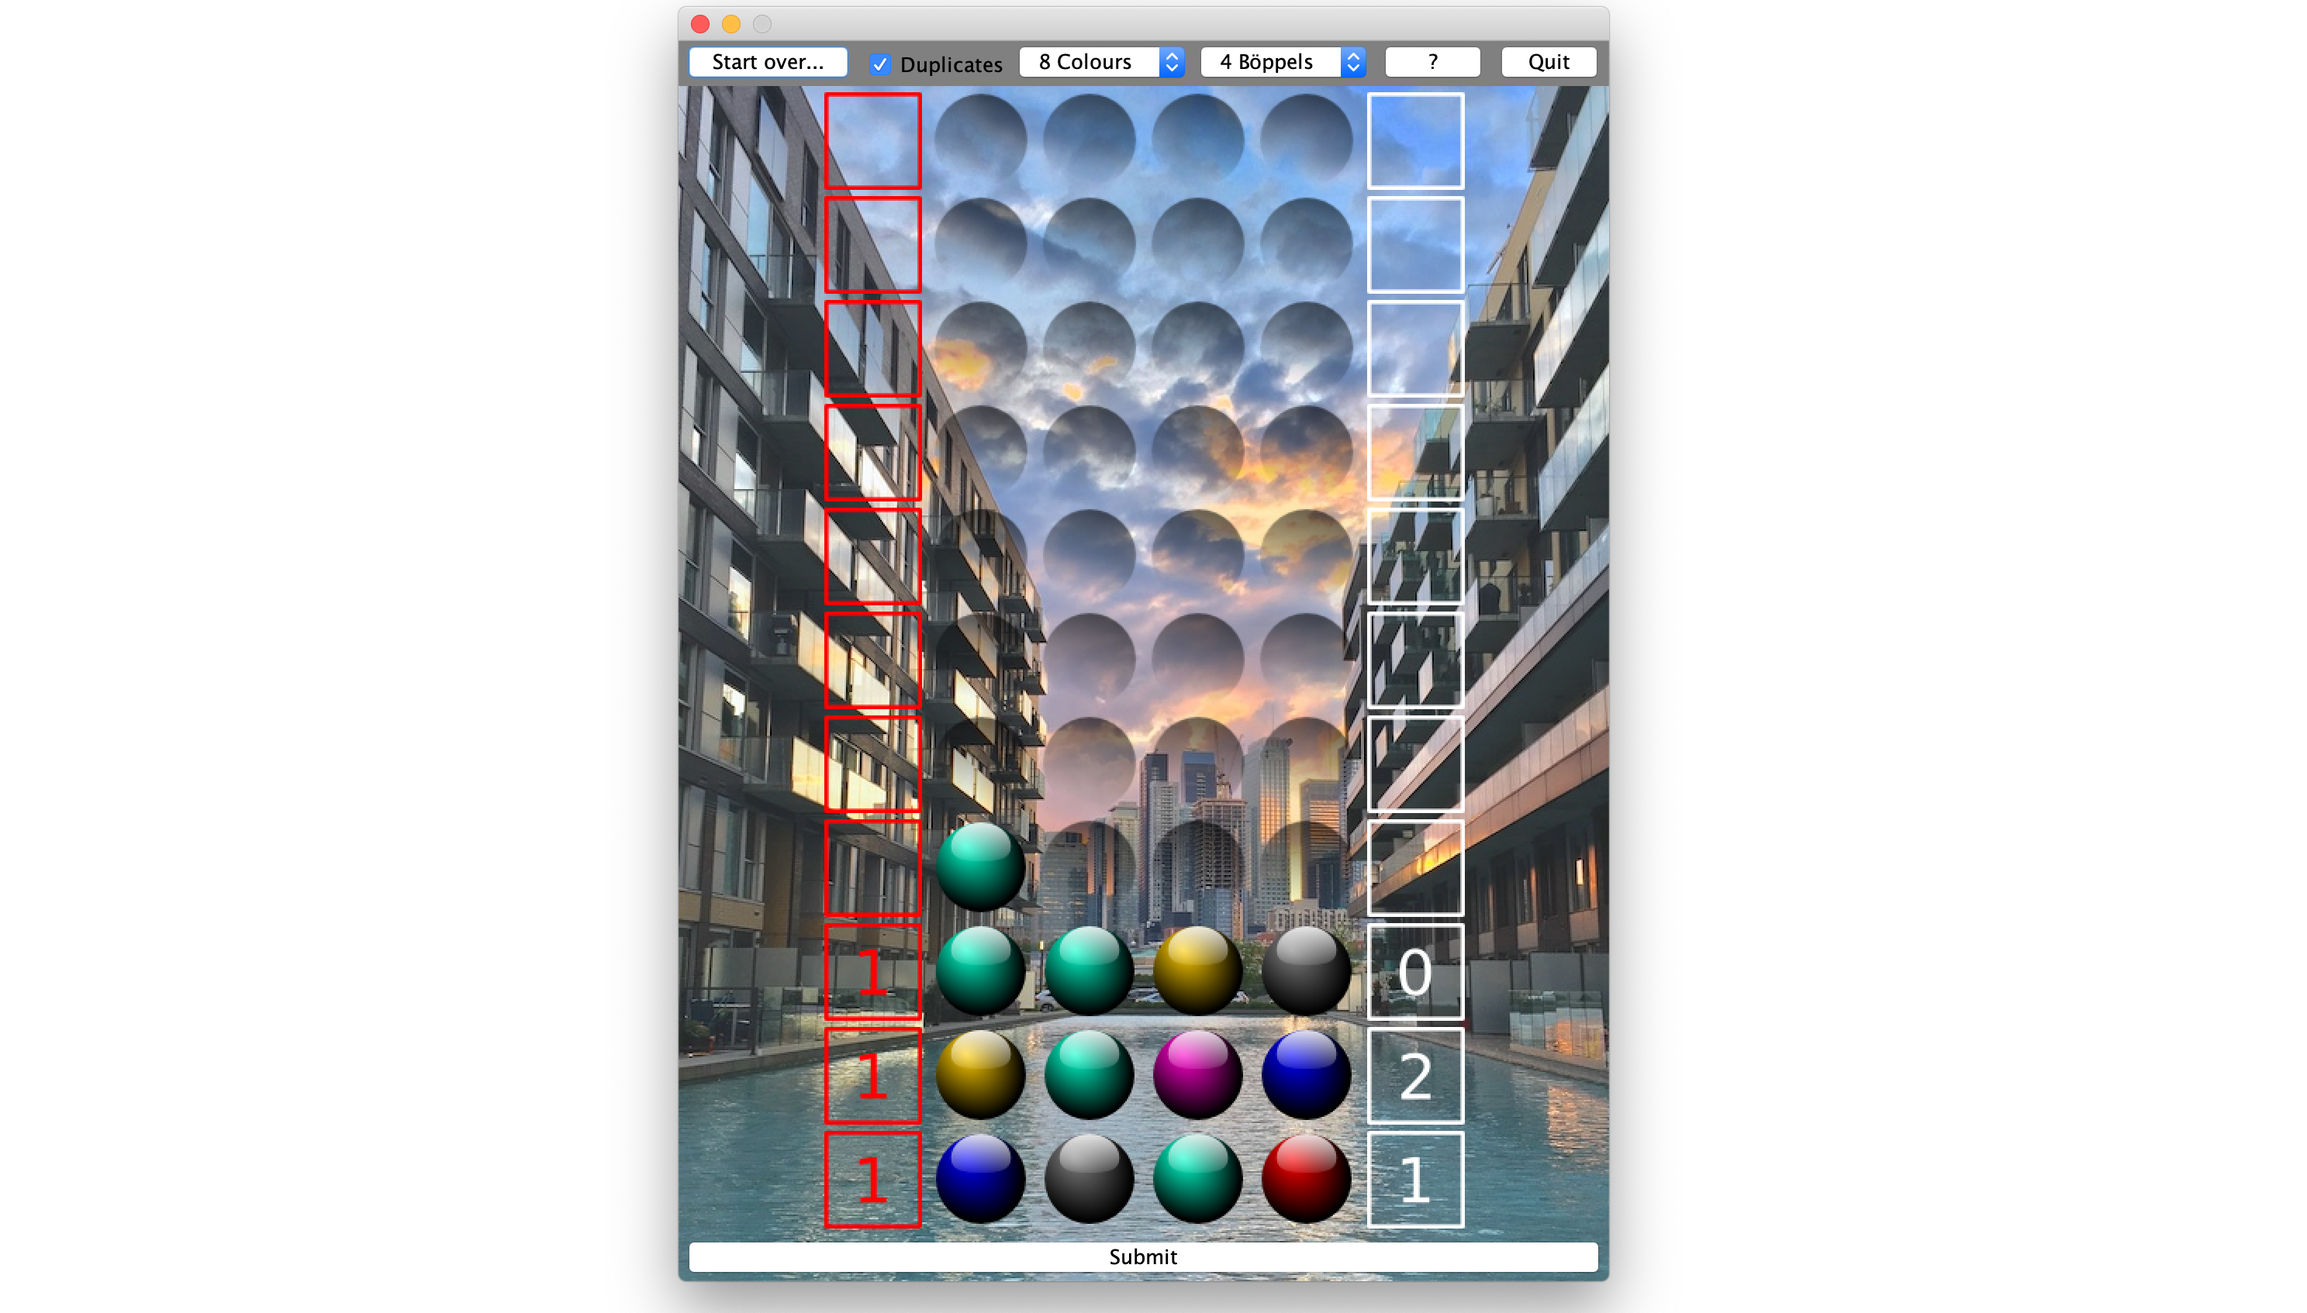
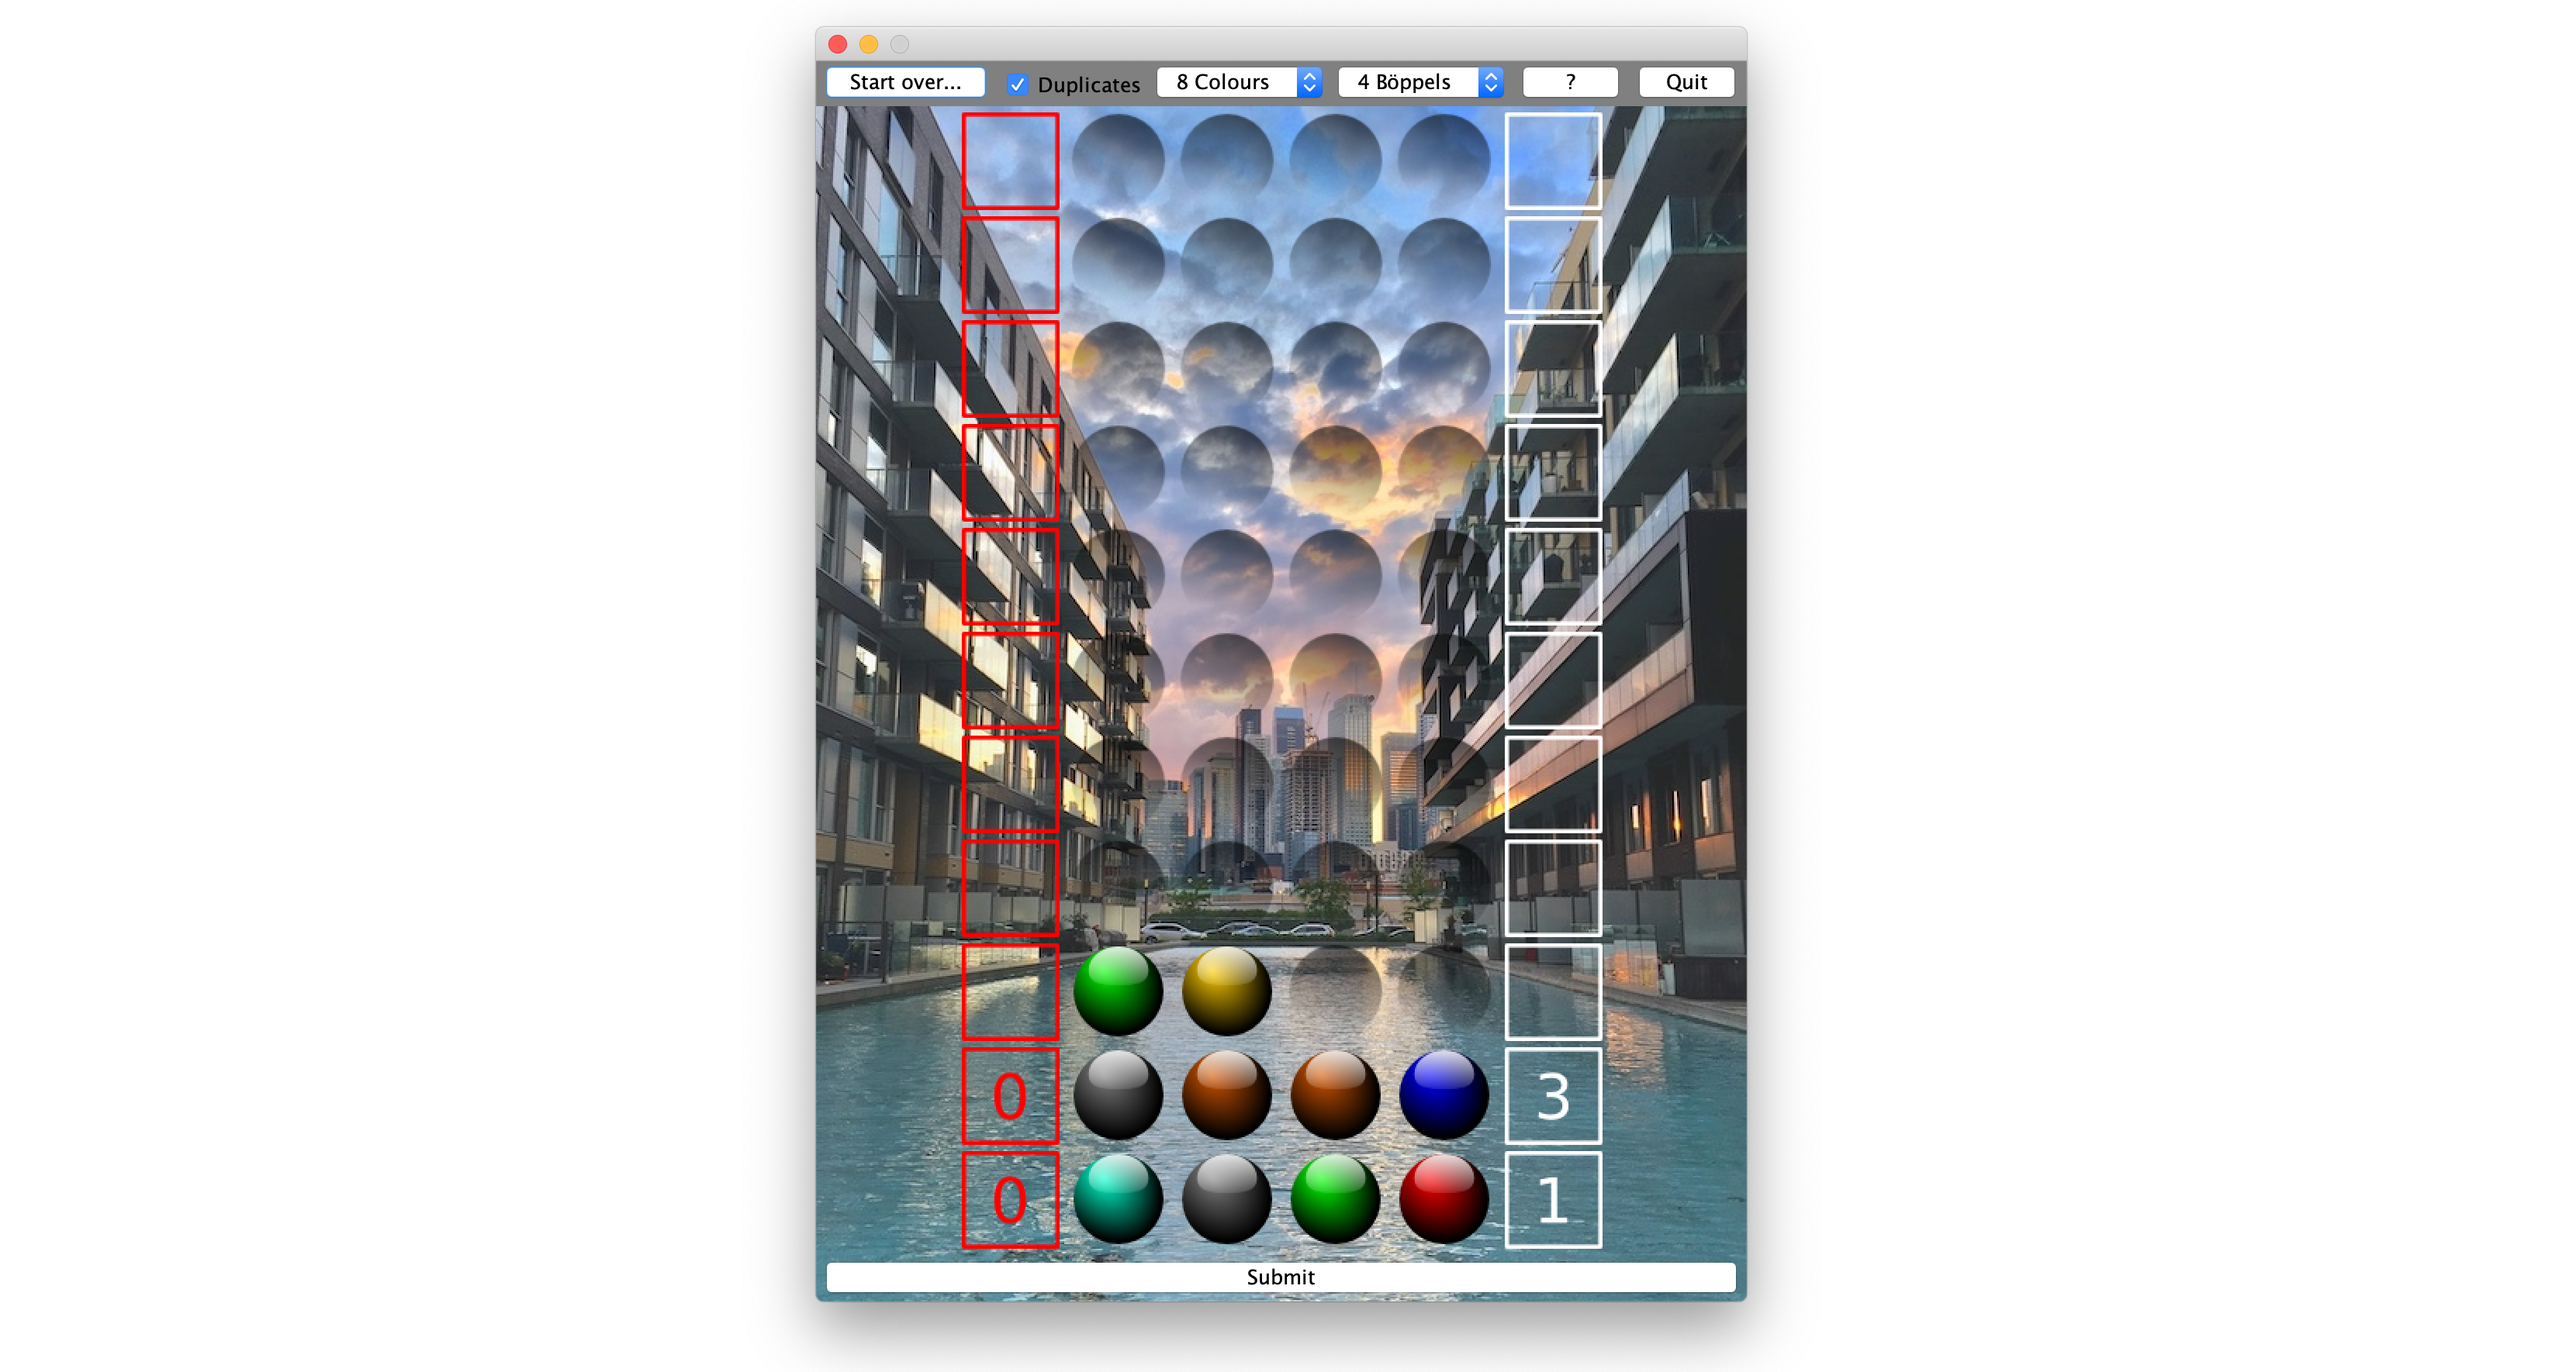
Adjusted backdrop canvas size, corrected typos in README.

diff --git a/README.md b/README.md
@@ -1,6 +1,6 @@
 # Openmind
 
-A combinatoric puzzle game.
+A code-breaking game.
 
 ![Screenshot](markdowndoc/gameplay.png)
 
@@ -34,8 +34,8 @@ java -jar target/OpenMind.jar
 
  * Hover your mouse over the lowest *Böppel*-row. Then scroll to select a colour.
  * Use the *Submit* button to enter a combination. Two number will appear:
-   * White: The amount of correctly coloured *Böppels*, on a correct spot. (Red)
-   * The amount of correctly coloured *Böppels*, on an incorrect spot. (White)
+   * Red: The amount of correctly coloured *Böppels*, on a correct spot.
+   * White: The amount of remaining correctly coloured *Böppels*, on an incorrect spot.
  * You win, if you submit the secret master combination within 11 guesses.
  * You loose, if you run out of guesses.
 
